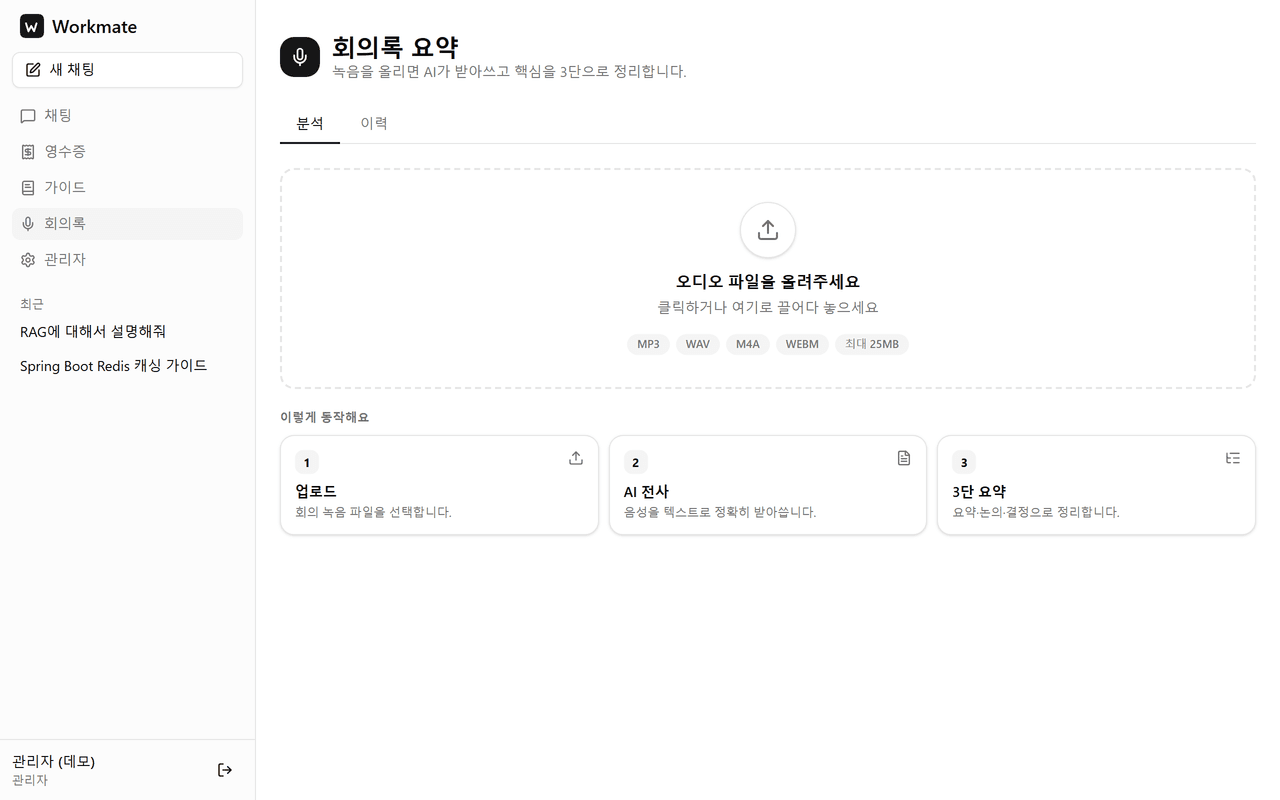
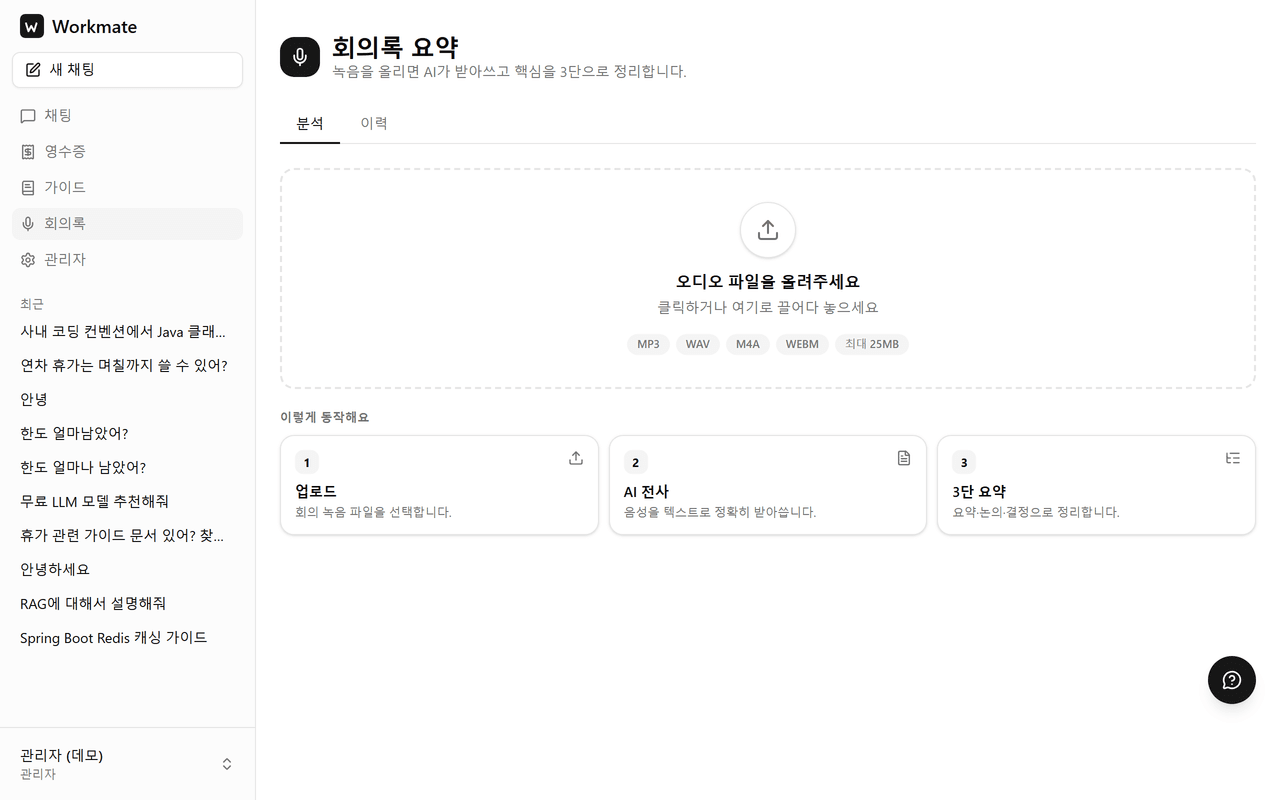
docs(readme): 스크린샷 12종 재촬영 + 캡처 파일명 정정
README 가 '이미지는 목 데이터가 아니라 이 상태의 앱을 찍은 것' 이라고 명시하는데,
오늘 바뀐 것들이 반영돼 있지 않았다.

- 채팅방 정리(38 -> 10) 전이라 사이드바에 ping 24개와 깨진 제목이 줄줄이 보였다
- 표 가로 스크롤 전이라 열이 찌그러진 상태였다
- 출처 라벨이 '가이드에서 찾은 문서' 로 바뀌기 전이었다
- 도우미 버튼이 전송 버튼을 덮던 위치였다

캡처 스크립트의 파일명도 고쳤다. 스크립트는 10_app_users.png 로 저장하는데
README 는 10_admin_users.png 를 참조해, 관리자 화면만 갱신되지 않고 예전
이미지가 계속 남아 있었다. 이번에 이름을 맞춰 12종이 모두 갱신된다.

scripts/package-lock.json 의 name 한 줄은 npm install 이 디렉터리명으로
정정한 것이다(부수 효과).

diff --git a/scripts/capture-all-perfect.js b/scripts/capture-all-perfect.js
@@ -240,7 +240,7 @@ async function run() {
     // 앱이 이미 이메일·전화번호를 마스킹해 내려주고, 감사 로그 화면에는 필터가 없어
     // 한쪽만 걸러내면 "사용자 목록에 없는 사람이 감사 로그에 등장하는" 앞뒤 안 맞는 화면이 된다.
     await go(page, '/admin/users', 1500);
-    await saveImage(page, '10_app_users.png');
+    await saveImage(page, '10_admin_users.png');
 
     await go(page, '/admin/audit-logs', 1500);
     await saveImage(page, '11_admin_audit.png');
